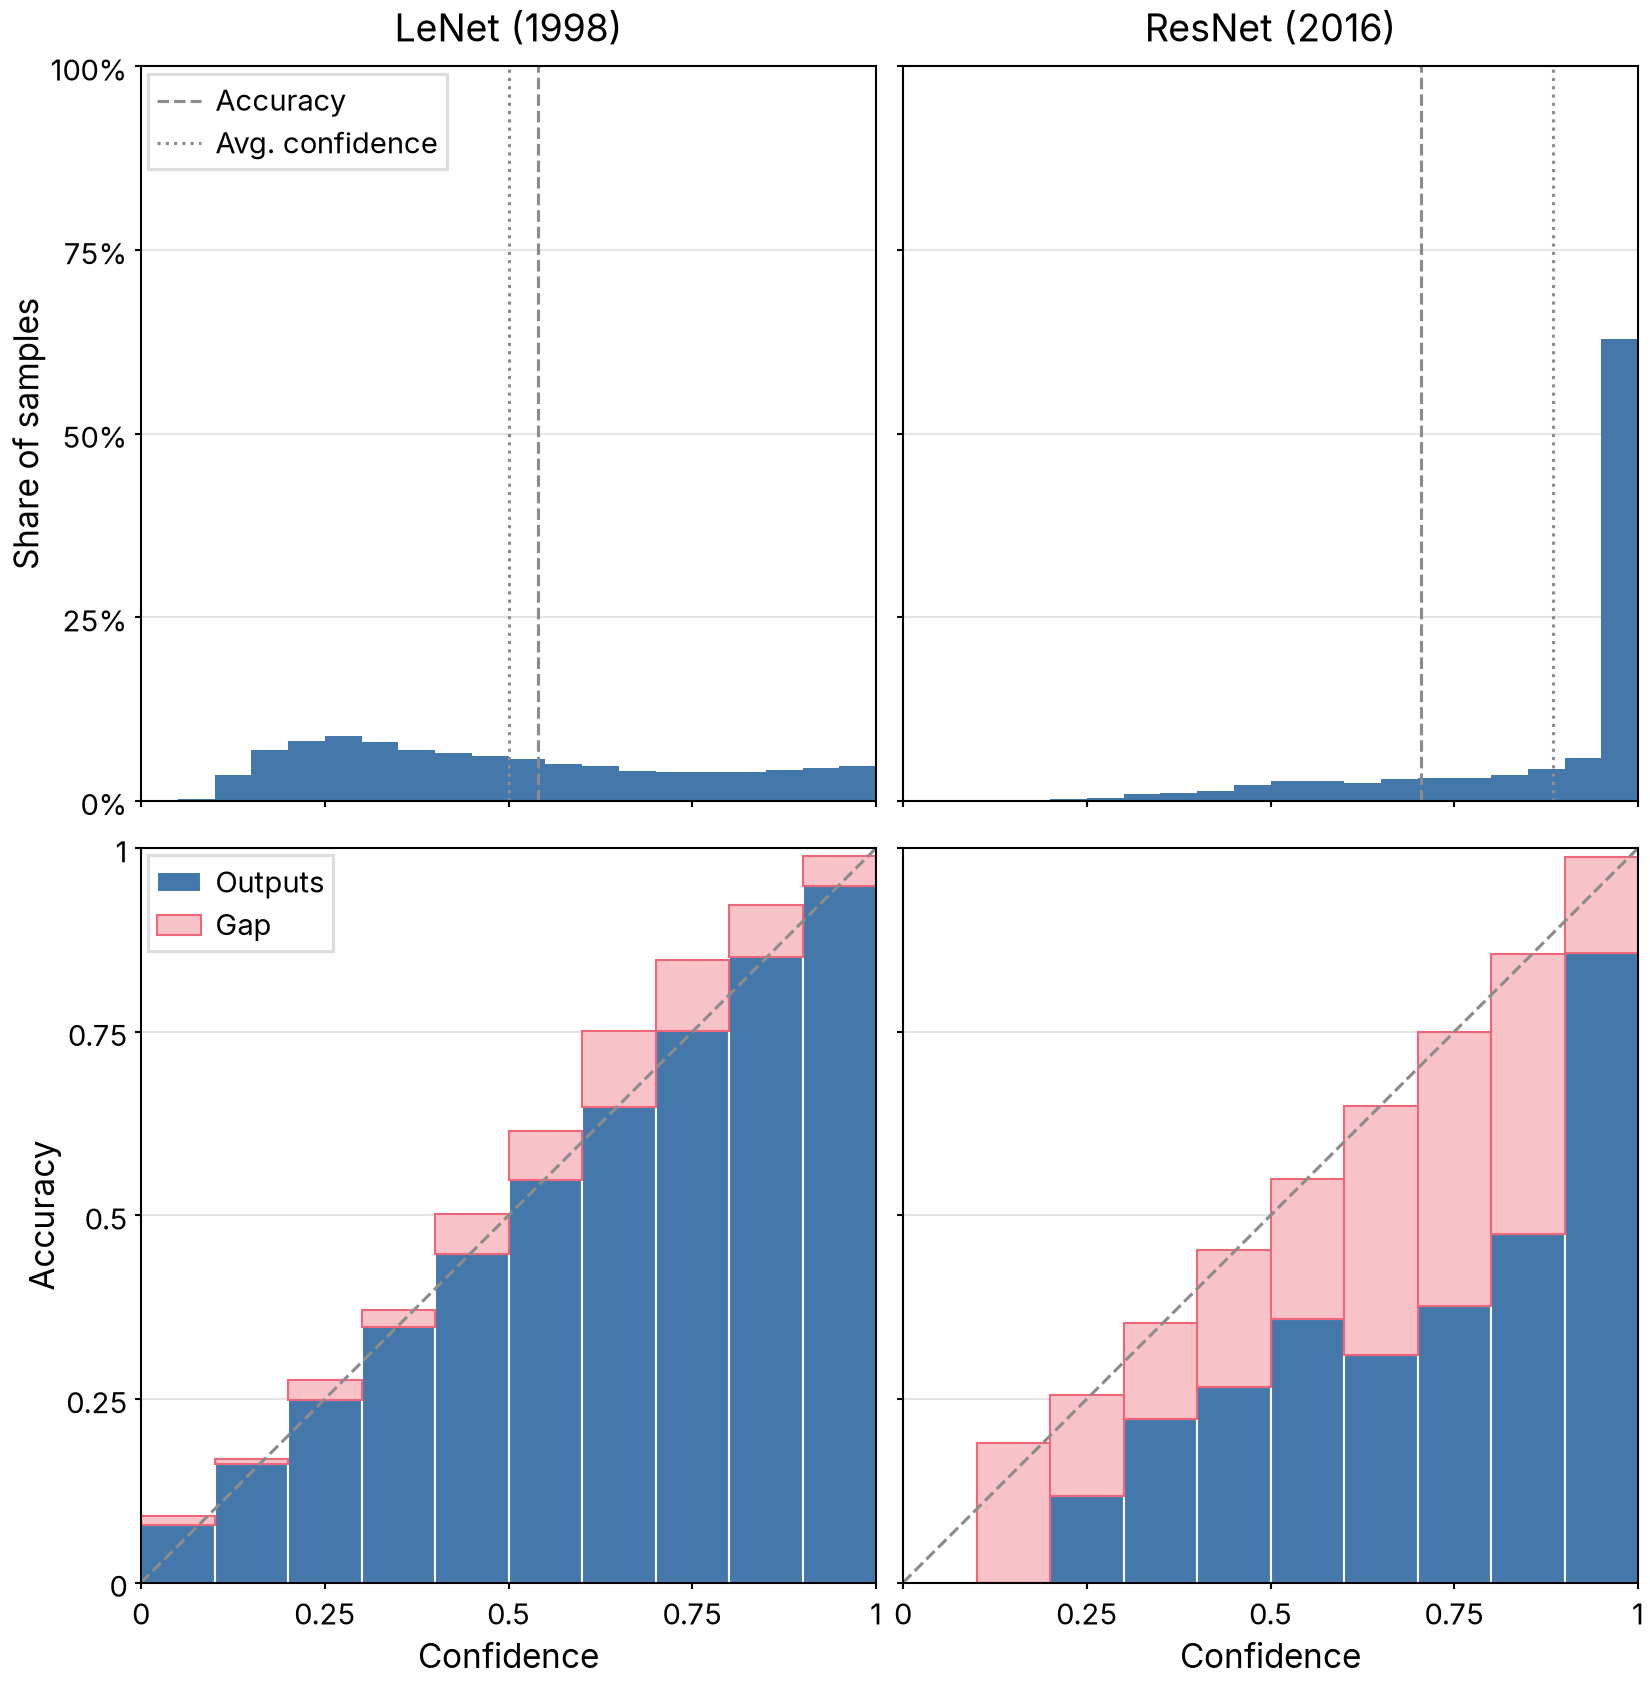
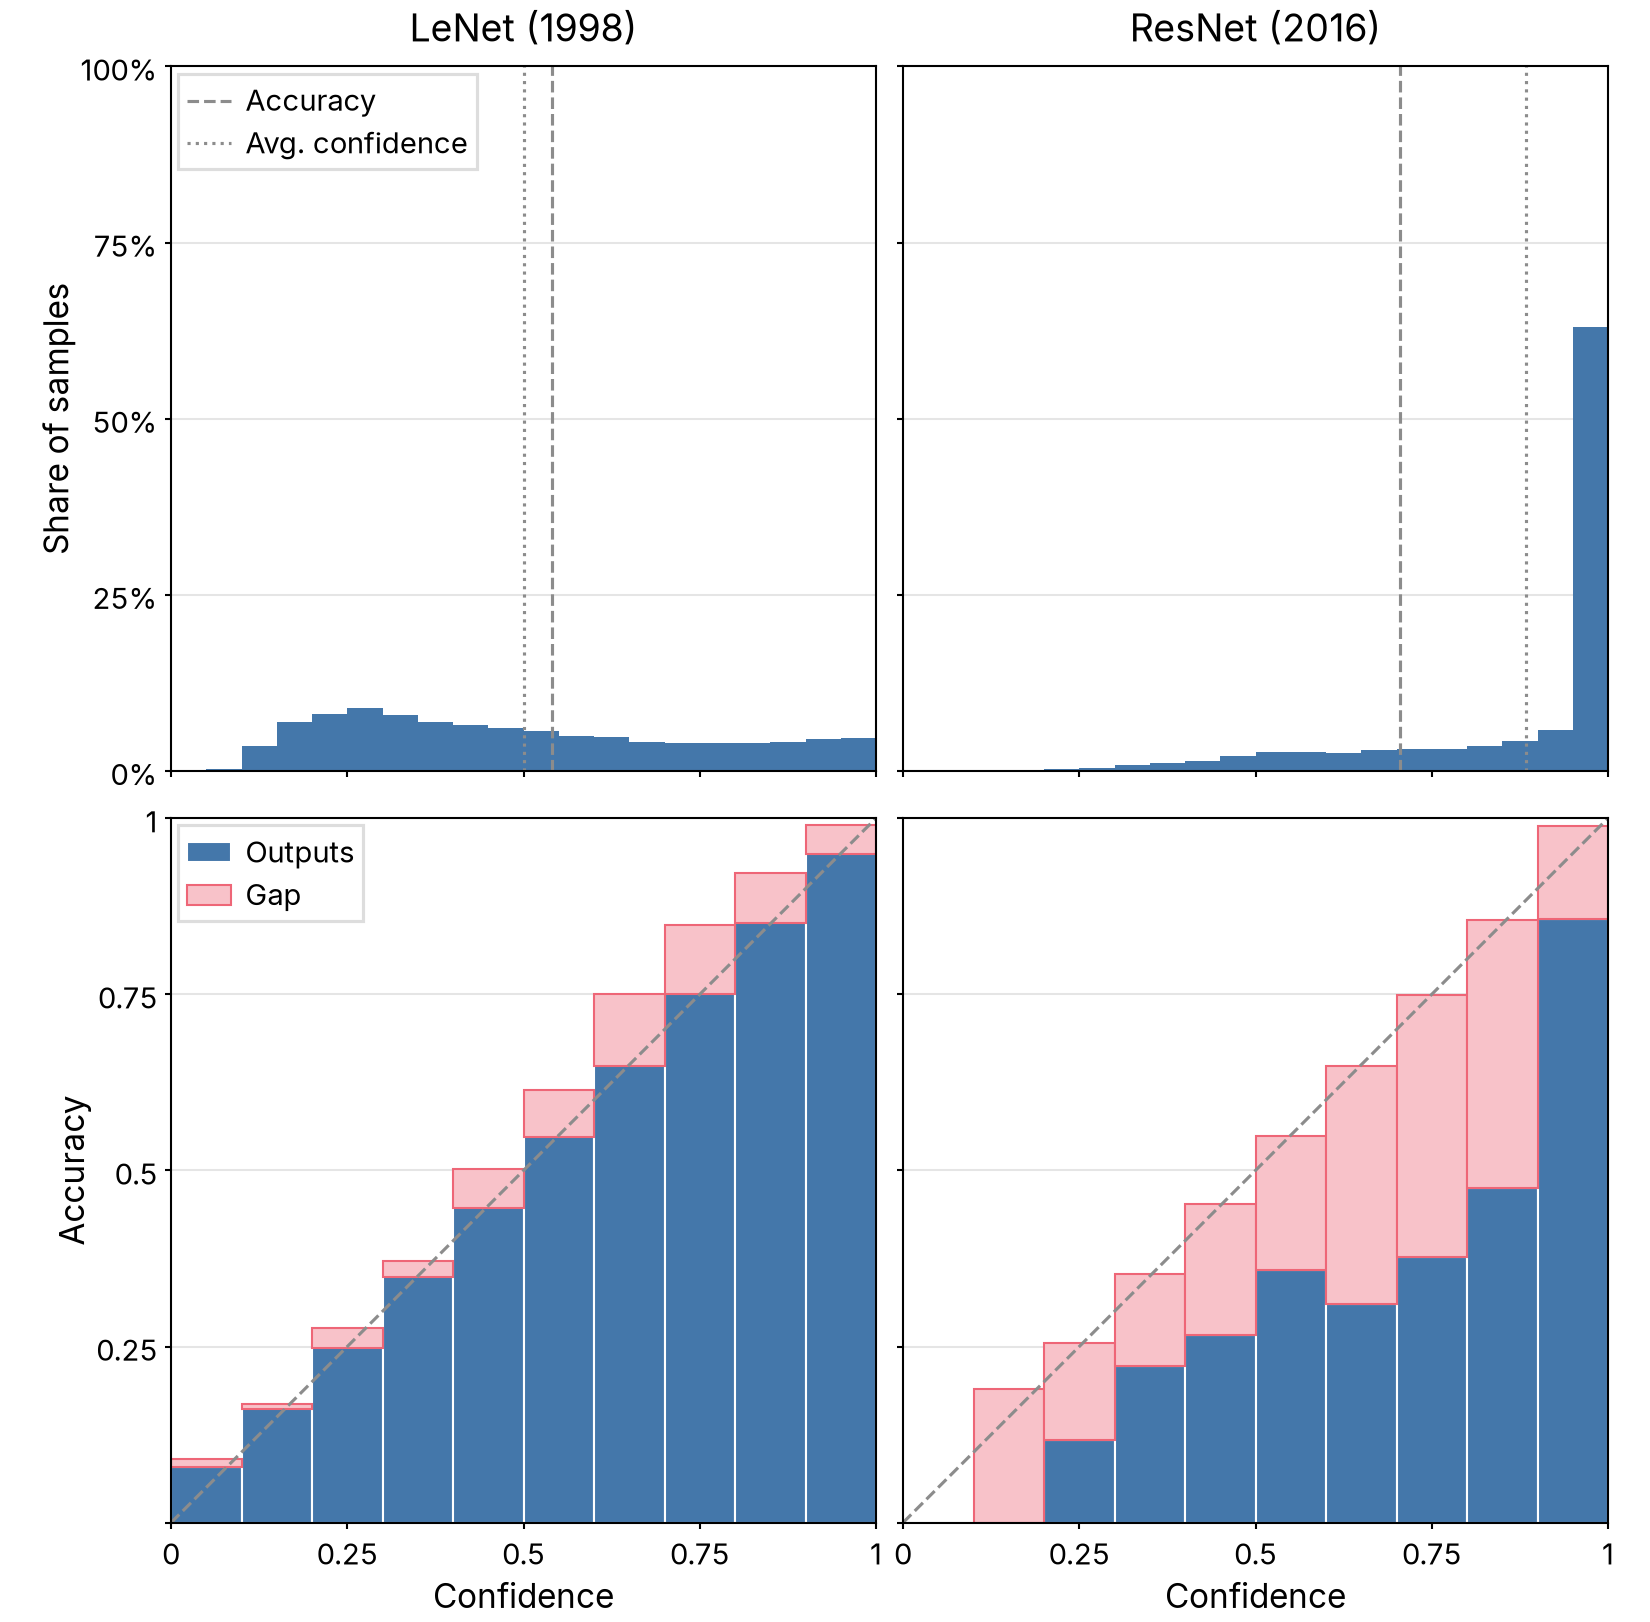
Canvas side padding; standard box only with y labels; no new ticks after it
- canvas-pad-x token (0.1 in): free space at the canvas's left and right edges,
  part of the standard margins and the constrained layout's rect
- Panels with no y labels (embeddings) stay centred
- Ticks are frozen before limits grow for labels after the standard box
- Bar values in darken(color); radar dashed widths; text ticks defer to Collisions

Claude-Session: https://claude.ai/code/session_01Vy1dAkyLNTuzaw6HFfW3zb

diff --git a/skills/academic-figure/assets/paper.py b/skills/academic-figure/assets/paper.py
@@ -29,6 +29,7 @@ def _size(a, original=False):
 dashed_width = 0.75  # the dashed-line token, set by use_design(); pass it to dashed and dotted lines
 highlight_size = 5  # the marker highlight-size token, set by use_design(); for a point of interest
 filled_edge_width = 0.25  # the marker filled-edge-width token, set by use_design(); for filled markers
+canvas_pad_x = 0.1  # the canvas-pad-x token, in inches, set by use_design(): free space at the left and right edges
 
 
 def _resolve(value, tokens):
@@ -51,7 +52,7 @@ def _number(value):
 def use_design(path="DESIGN.md"):
     """Set matplotlib's style from paper.mplstyle and the tokens in the front matter of `path`, a DESIGN.md.
     Returns the colors by name, e.g. colors["series-1"], colors["ours"]."""
-    global dashed_width, highlight_size, filled_edge_width, _greys
+    global dashed_width, highlight_size, filled_edge_width, canvas_pad_x, _greys
     tokens = yaml.safe_load(Path(path).read_text().split("---")[1])
     tokens = _resolve(tokens, tokens)
     c, t, s, k = tokens["colors"], tokens["typography"], tokens["spacing"], tokens["components"]
@@ -91,6 +92,7 @@ def use_design(path="DESIGN.md"):
     })
     dashed_width = _number(k["dashed-line"]["width"])
     highlight_size = _number(k["marker"]["highlight-size"])
+    canvas_pad_x = _number(s["canvas-pad-x"])
     filled_edge_width = _number(k["marker"]["filled-edge-width"])
     return c
 
@@ -335,8 +337,7 @@ def _standard_margins(fig):
     sample.remove()
     label = rcParams["axes.labelsize"] * 1.2 / 72  # one line of the axis label, rotated
     pads = (rcParams["axes.labelpad"] + rcParams["ytick.major.pad"] + rcParams["ytick.major.size"]) / 72
-    pad = rcParams["figure.constrained_layout.w_pad"]
-    return pad + label + pads + ticks, pad + ticks / 2
+    return canvas_pad_x + label + pads + ticks, canvas_pad_x + ticks / 2
 
 
 def _standard_box(fig, panels, aspect):
@@ -355,8 +356,12 @@ def _standard_box(fig, panels, aspect):
     rows = sorted({round(b.y0 * h, 2) for b in boxes.values()}, reverse=True)
     col_of = {a: columns.index(round(b.x0 * w, 2)) for a, b in boxes.items()}
     row_of = {a: rows.index(round(b.y0 * h, 2)) for a, b in boxes.items()}
+    first_column = [a for a in panels if col_of[a] == 0]
+    if not any(a.yaxis.label.get_text() or any(t.get_visible() and t.get_text() for t in a.get_yticklabels())
+               for a in first_column):
+        return False  # no y labels to align (an embedding): the layout centres the panel
     left, right = _standard_margins(fig)
-    pad = rcParams["figure.constrained_layout.w_pad"]
+    pad = canvas_pad_x
     for a, b in boxes.items():
         tight = a.get_tightbbox(renderer)
         if col_of[a] == 0 and b.x0 * w - tight.x0 / fig.dpi + pad > left + 1e-3:
@@ -482,6 +487,10 @@ def fit_height(fig, ax, aspect=0.618, iters=10, tol=0.005, min_width=1.2):
               if a.get_visible() and a.axison and getattr(a, "_colorbar", None) is None]
     _plain_numbers(fig)
     _start_at_zero(panels)
+    if isinstance(fig.get_layout_engine(), ConstrainedLayoutEngine):
+        # free space at the left and right edges of the canvas, for text that reaches past the panels
+        side = canvas_pad_x / fig.get_figwidth()
+        fig.get_layout_engine().set(rect=(side, 0, 1 - 2 * side, 1))
     if any(_is_round(a) for a in panels):
         _trim_height(fig, panels)
         _warn_layout_problems(fig, panels, min_width)
@@ -508,6 +517,7 @@ def fit_height(fig, ax, aspect=0.618, iters=10, tol=0.005, min_width=1.2):
                       f"panel ratios: {[round(r, 3) for r in ratios]}")
     _clear_corners(fig, panels)
     if _standard_box(fig, panels, aspect):
+        _freeze_ticks(panels)  # growing limits for labels now must not add ticks the layout has no room for
         _keep_value_labels_inside(fig, panels)
         ratios = _panel_ratios(fig, panels)[0]
     _warn_layout_problems(fig, panels, min_width)

diff --git a/skills/academic-figure/assets/DESIGN.md b/skills/academic-figure/assets/DESIGN.md
@@ -34,6 +34,7 @@ typography:
     fontWeight: 400
 spacing:
   layout-pad: 0.02in
+  canvas-pad-x: 0.1in
   title-pad: 6pt
   label-pad: 1pt
   tick-pad: 1.75pt
@@ -130,7 +131,7 @@ One family, `Inter` (bundled), for all text and math, regular weight everywhere 
 - **Text tick labels** (non-numeric names) that `fit_height` reports overlapping, by what they name:
   - **Unordered categories, one value each** (methods, models, groups in one bar, error bar or box chart): swap the axes so the names read horizontally down the y axis (horizontal bars, a forest plot, horizontal boxes), ordered top to bottom as under Order.
   - **Names down the y axis** (a heatmap's rows, horizontal bars) that overlap: give the panel height, by widening it at its own aspect (Collisions step 3).
-  - **Everything that keeps the x axis** (named bins, the categories of grouped series, benchmarks shared across panels): turn them 45°, `ax.set_xticks(x, labels=names, rotation=45, ha="right", rotation_mode="anchor")` (`ha="left"` on a top axis), then 90° (`rotation=90, ha="center"`) if they still overlap; if they overlap at 90°, give the panel the width a colorbar takes (colorbar below), then label every second category.
+  - **Everything that keeps the x axis** (named bins, the categories of grouped series, benchmarks shared across panels): turn them 45°, `ax.set_xticks(x, labels=names, rotation=45, ha="right", rotation_mode="anchor")` (`ha="left"` on a top axis), then 90° (`rotation=90, ha="center"`) if they still overlap; if they overlap at 90°, Collisions steps 3 and 4 (a colorbar beside the panel moves below it first, giving its width to the panel).
 - **Math**: mathtext, set in Inter like the rest (`r"$\mathrm{PPL}_{\mathrm{Base}}$"`); symbols Inter lacks (∝, ≈) go in mathtext too (`$\propto$`).
 - **Text on a fill** (a bar segment, a wedge, a heatmap cell, an area band): black or white, whichever reads on it, `color=text_color(fill)`.
 - **Text over mixed content** (a note over bars, gridlines and a reference line, where no single fill sets its contrast): on a white box, `bbox=dict(facecolor="white", edgecolor="none", pad=1)`. Contour labels take none: they sit in the gap cut for them.
@@ -226,7 +227,7 @@ fig.savefig("outputs/{id}.pdf")
 ```
 
 - **Panels**: `ax` may be one Axes, an array, a list (also of panels from several sub-figures), or the `subplot_mosaic` dict; hidden cells and colorbars are skipped.
-- **Standard box**: panels start and end at standard margins (left: an axis label plus four-character tick labels; right: half a tick label), so every figure of one width and one number of columns has panels of the same size, in the same place; `fit_height` sets this whenever the outer labels fit those margins, and longer outer labels (category names) take the room they need.
+- **Standard box**: panels start and end at standard margins (left: the `canvas-pad-x` token plus an axis label and four-character tick labels; right: `canvas-pad-x` plus half a tick label), so every figure of one width and one number of columns has panels of the same size, in the same place; `fit_height` sets this whenever the outer labels fit those margins, and longer outer labels (category names) take the room they need.
 - **Labels inside**: `fit_height` keeps every `mark_value` label and bar label (`ax.bar_label`) inside its panel, by growing the limits and turning `mark_value` labels at a side edge inward. Point names (annotations in data coordinates) get at most a quarter more axis range; a name that needs more is reported as sticking out, to be moved. Other text is never moved.
 - **Errors**: on `ValueError` (fixed aspect), draw images with `imshow(..., aspect="auto")`; on the "different widths" warning, give all panels the same width.
 

diff --git a/skills/academic-figure/radar-chart.md b/skills/academic-figure/radar-chart.md
@@ -20,7 +20,7 @@ A few models' profiles across 5 to 10 benchmarks or capabilities, when the shape
   ax.set_ylim(0, rings[-1])
   ```
 
-- **Models**: each a closed polygon, filled lightly so overlaps stay visible, `ax.plot(loop, np.r_[values, values[:1]], color=color, label=name)`, `ax.fill(angles, values, color=color, alpha=0.1)`; ours in `colors["ours"]`, drawn last so it is on top, the compared models in `neutral` told apart by line style (DESIGN.md Colors).
+- **Models**: each a closed polygon, filled lightly so overlaps stay visible, `ax.plot(loop, np.r_[values, values[:1]], color=color, linestyle=style, linewidth=1 if style == "-" else paper.dashed_width, label=name)`, `ax.fill(angles, values, color=color, alpha=0.1)`; ours in `colors["ours"]`, drawn last so it is on top, the compared models in `neutral` told apart by line style (DESIGN.md Colors).
 - **Spoke names**: `ax.set_xticks(angles, labels=names)`, off the outer polygon, `ax.tick_params(axis="x", pad=6)`.
 - **Ring values**: between two spokes so they sit on no line, where a polygon ring is at r·cos(π/n), not r: `ax.set_yticks([r * np.cos(np.pi / n) for r in rings[:-1]], labels=[str(r) for r in rings[:-1]])`, `ax.set_rlabel_position(180 / n)`.
 

diff --git a/skills/academic-figure/bar-chart.md b/skills/academic-figure/bar-chart.md
@@ -17,7 +17,7 @@ Reported results compared across categories, one value each: methods, ablations 
 
 ## Labels
 
-- **Bar values**: every bar of a reported result, `ax.bar_label(bars, labels=[f"{v:#.3g}" for v in values])`, written by DESIGN.md's value table. Placements (for Collisions): horizontal, then turned to read upward, `rotation=90, padding=2`.
+- **Bar values**: every bar of a reported result, `ax.bar_label(bars, labels=[f"{v:#.3g}" for v in values], color=darken(color))`, written by DESIGN.md's value table. Placements (for Collisions): horizontal, then turned to read upward, `rotation=90, padding=2`.
 - **Values on segments** (stacked, win rate): each segment's value inside it, `ax.bar_label(bars, labels=[f"{v:.0%}" for v in shares], label_type="center", color=text_color(color))`; a label that spills out of its segment is dropped (Collisions step 3; for segments, each segment is its own kind).
 
 ## Caption
